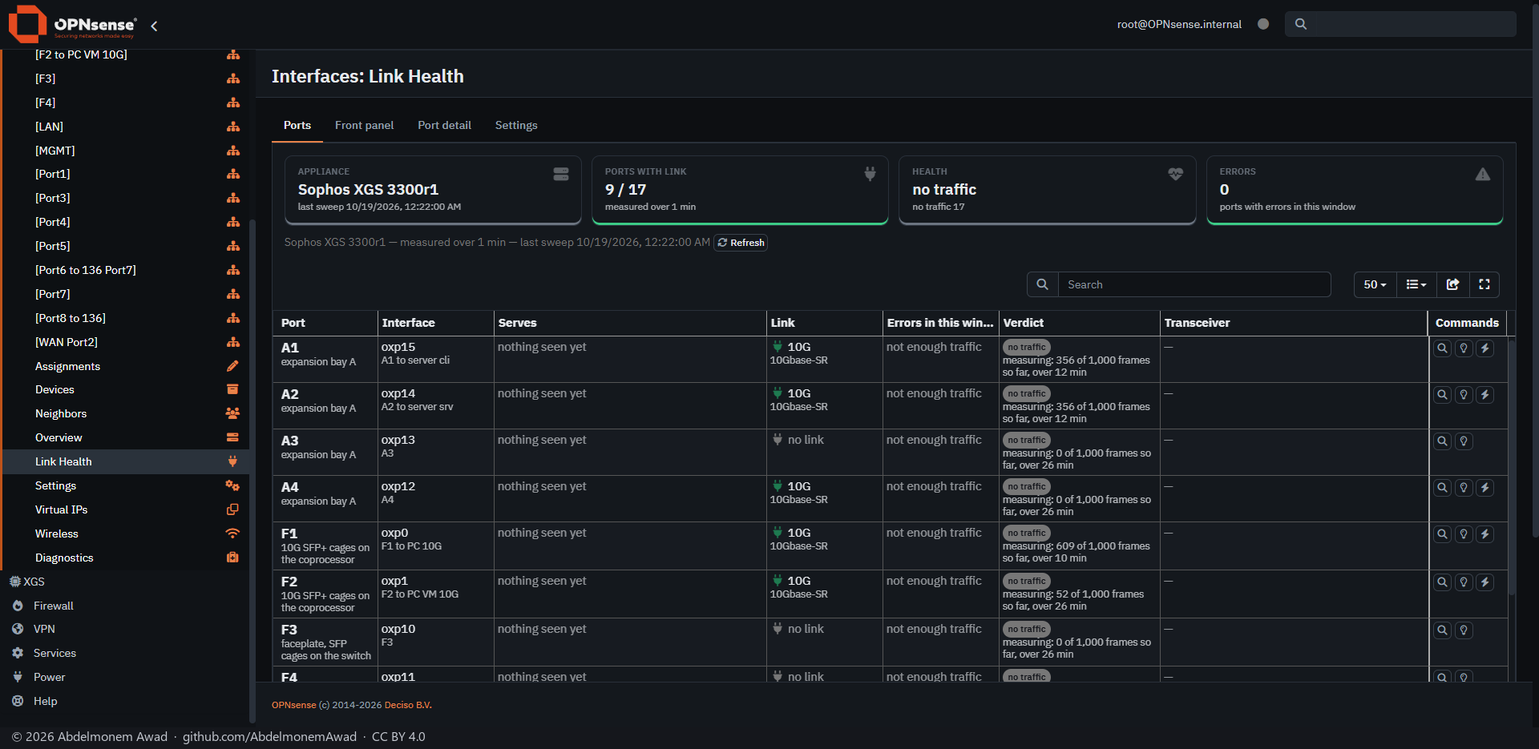
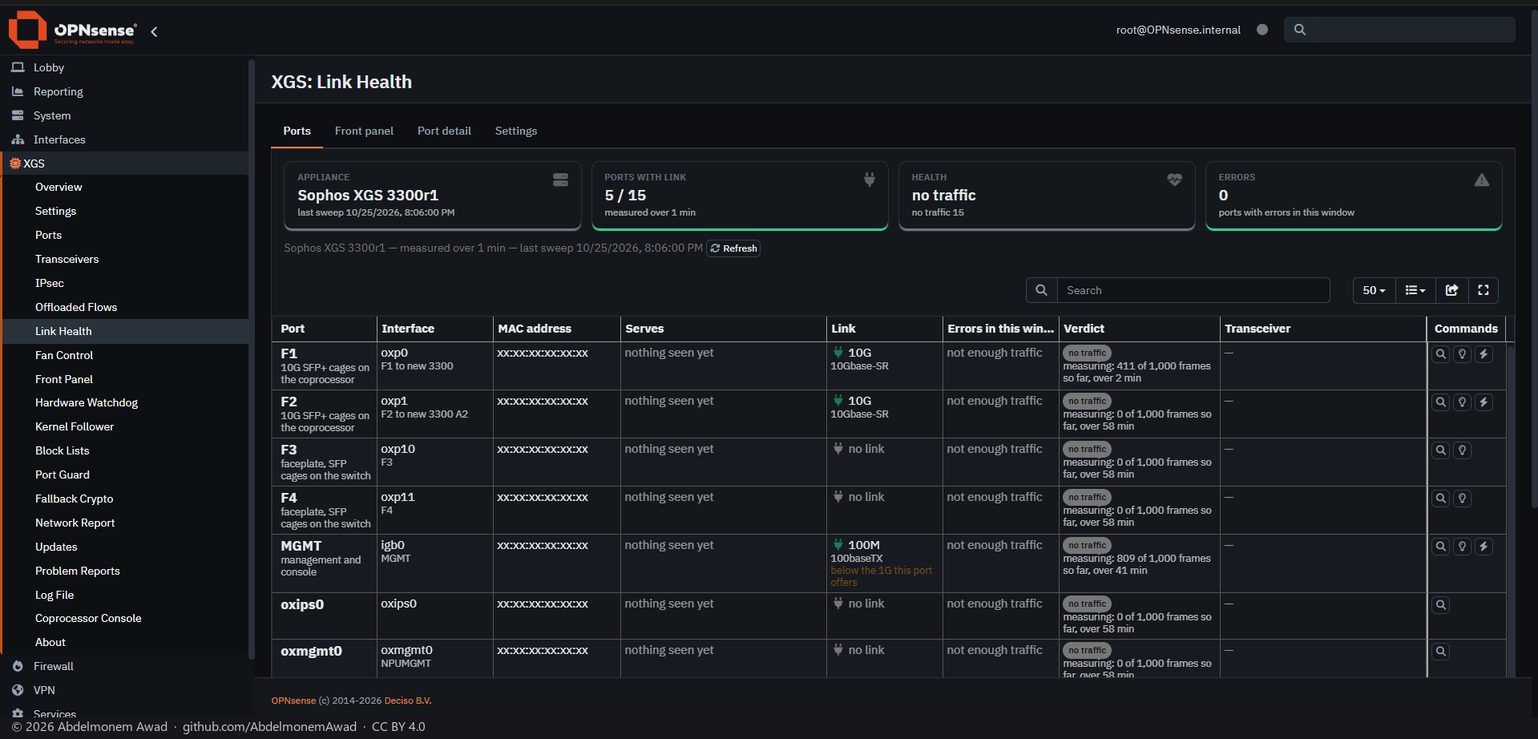
docs: the pages of 2026-10-25 photographed - the Coprocessor tab, the fast-path counters, the console, nine plugins under XGS
The Coprocessor tab and the fast-path counters of XGS: Overview, XGS: Coprocessor Console, the five
new plugins' pages, and the four older plugins' pages and the Plugins tab again, now that the family's
pages are in the XGS section - photographed on the first XGS 3300 the way the others were, in
English, values masked where a page shows any. The guide names the plugins' pages as XGS: and says
where each is without os-xgs-npu; the README counts eleven XGS pages and nine plugins.

diff --git a/docs/images/README.md b/docs/images/README.md
@@ -17,12 +17,12 @@ to a new image, and the checks fail on one without them.
 
 | folder | what it holds | images |
 |---|---|---|
-| [screens/](screens/) | The web interface, page by page, in English and in Arabic | 70 |
+| [screens/](screens/) | The web interface, page by page, in English and in Arabic | 78 |
 | [hardware/](hardware/) | Photographs and drawings of the appliances, one folder each | 41 |
 | [measurements/](measurements/) | Each measurement's photographs, in a folder named after its page | 471 |
 | [readme/](readme/) | The README's banner and status board, drawn by tools/readme-art.py | 6 |
 
-614 images in all.
+622 images in all.
 
 ## The web interface
 
@@ -34,6 +34,8 @@ in [docs/guide/the-pages.md](../guide/the-pages.md), English first and Arabic un
 <tr><td valign="top"><sub>Lobby: Dashboard on an XGS 3300</sub></td><td valign="top"><a href="screens/en/00-lobby-dashboard.png"><img src="screens/en/00-lobby-dashboard.png" alt="Lobby: Dashboard on an XGS 3300 - English" width="100%"></a></td><td valign="top"><a href="screens/ar/00-lobby-dashboard.png"><img src="screens/ar/00-lobby-dashboard.png" alt="Lobby: Dashboard on an XGS 3300 - Arabic" width="100%"></a></td></tr>
 <tr><td valign="top"><sub>The question on XGS: Overview, on the second XGS 3300 as a new install shows it: problem reports waiting for their Send, the appliance not counted, the model's tested status, "Help it get better", and the two answers</sub></td><td valign="top"><a href="screens/en/01-xgs-overview-question.png"><img src="screens/en/01-xgs-overview-question.png" alt="The question on XGS: Overview, on the second XGS 3300 as a new install shows it: problem reports waiting for their Send, the appliance not counted, the model's tested status, "Help it get better", and the two answers - English" width="100%"></a></td><td valign="top"><a href="screens/ar/01-xgs-overview-question.png"><img src="screens/ar/01-xgs-overview-question.png" alt="The question on XGS: Overview, on the second XGS 3300 as a new install shows it: problem reports waiting for their Send, the appliance not counted, the model's tested status, "Help it get better", and the two answers - Arabic" width="100%"></a></td></tr>
 <tr><td valign="top"><sub>XGS: Overview on an XGS 3300: the front panel drawn with each port's link, cards for the coprocessor, hardware offloading, the IPsec engine, the front ports, the switch chip and the last restart, and the board's limits</sub></td><td valign="top"><a href="screens/en/01-xgs-overview.png"><img src="screens/en/01-xgs-overview.png" alt="XGS: Overview on an XGS 3300: the front panel drawn with each port's link, cards for the coprocessor, hardware offloading, the IPsec engine, the front ports, the switch chip and the last restart, and the board's limits - English" width="100%"></a></td><td valign="top"><a href="screens/ar/01-xgs-overview.png"><img src="screens/ar/01-xgs-overview.png" alt="XGS: Overview on an XGS 3300: the front panel drawn with each port's link, cards for the coprocessor, hardware offloading, the IPsec engine, the front ports, the switch chip and the last restart, and the board's limits - Arabic" width="100%"></a></td></tr>
+<tr><td valign="top"><sub>XGS: Overview's Coprocessor tab on the first XGS 3300: eight cards - the vendor's build 23.0.0.329, the CN8365 with 20 cores, copy A running with copy B holding 22.0.2.546, the Kingston eMMC, the persistent partition, the boot firmware, the watchdog fed every 5 s, no memory errors - then the software and the chips</sub></td><td valign="top"><a href="screens/en/01b-xgs-overview-coprocessor.png"><img src="screens/en/01b-xgs-overview-coprocessor.png" alt="XGS: Overview's Coprocessor tab on the first XGS 3300: eight cards - the vendor's build 23.0.0.329, the CN8365 with 20 cores, copy A running with copy B holding 22.0.2.546, the Kingston eMMC, the persistent partition, the boot firmware, the watchdog fed every 5 s, no memory errors - then the software and the chips - English" width="100%"></a></td><td valign="top"><sub>English only</sub></td></tr>
+<tr><td valign="top"><sub>XGS: Overview's Datapath counters tab on the first XGS 3300: the driver's counters, then the coprocessor's fast-path counters named for SFOS 23's software, with Read now and Clear</sub></td><td valign="top"><a href="screens/en/01c-xgs-overview-fast-path.png"><img src="screens/en/01c-xgs-overview-fast-path.png" alt="XGS: Overview's Datapath counters tab on the first XGS 3300: the driver's counters, then the coprocessor's fast-path counters named for SFOS 23's software, with Read now and Clear - English" width="100%"></a></td><td valign="top"><sub>English only</sub></td></tr>
 <tr><td valign="top"><sub>XGS: Settings on an XGS 3300: the Acceleration tab</sub></td><td valign="top"><a href="screens/en/02-xgs-settings.png"><img src="screens/en/02-xgs-settings.png" alt="XGS: Settings on an XGS 3300: the Acceleration tab - English" width="100%"></a></td><td valign="top"><a href="screens/ar/02-xgs-settings.png"><img src="screens/ar/02-xgs-settings.png" alt="XGS: Settings on an XGS 3300: the Acceleration tab - Arabic" width="100%"></a></td></tr>
 <tr><td valign="top"><sub>XGS: Settings on the XGS 136, the Security tab with full help: Cut in hardware, Inspect, then hardware, Watch for unusual traffic</sub></td><td valign="top"><a href="screens/en/02b-xgs-settings-security.png"><img src="screens/en/02b-xgs-settings-security.png" alt="XGS: Settings on the XGS 136, the Security tab with full help: Cut in hardware, Inspect, then hardware, Watch for unusual traffic - English" width="100%"></a></td><td valign="top"><a href="screens/ar/02b-xgs-settings-security.png"><img src="screens/ar/02b-xgs-settings-security.png" alt="XGS: Settings on the XGS 136, the Security tab with full help: Cut in hardware, Inspect, then hardware, Watch for unusual traffic - Arabic" width="100%"></a></td></tr>
 <tr><td valign="top"><sub>XGS: Settings on an XGS 3300, the Hardware tab: the flow table, the switch chip, the fast path, the ports</sub></td><td valign="top"><a href="screens/en/02c-xgs-settings-hardware.png"><img src="screens/en/02c-xgs-settings-hardware.png" alt="XGS: Settings on an XGS 3300, the Hardware tab: the flow table, the switch chip, the fast path, the ports - English" width="100%"></a></td><td valign="top"><a href="screens/ar/02c-xgs-settings-hardware.png"><img src="screens/ar/02c-xgs-settings-hardware.png" alt="XGS: Settings on an XGS 3300, the Hardware tab: the flow table, the switch chip, the fast path, the ports - Arabic" width="100%"></a></td></tr>
@@ -45,16 +47,22 @@ in [docs/guide/the-pages.md](../guide/the-pages.md), English first and Arabic un
 <tr><td valign="top"><sub>XGS: IPsec, Counters: frames decrypted and encrypted by the engine</sub></td><td valign="top"><a href="screens/en/05c-xgs-ipsec-counters.png"><img src="screens/en/05c-xgs-ipsec-counters.png" alt="XGS: IPsec, Counters: frames decrypted and encrypted by the engine - English" width="100%"></a></td><td valign="top"><a href="screens/ar/05c-xgs-ipsec-counters.png"><img src="screens/ar/05c-xgs-ipsec-counters.png" alt="XGS: IPsec, Counters: frames decrypted and encrypted by the engine - Arabic" width="100%"></a></td></tr>
 <tr><td valign="top"><sub>XGS: Offloaded Flows on an XGS 3300</sub></td><td valign="top"><a href="screens/en/06-xgs-offloaded-flows.png"><img src="screens/en/06-xgs-offloaded-flows.png" alt="XGS: Offloaded Flows on an XGS 3300 - English" width="100%"></a></td><td valign="top"><a href="screens/ar/06-xgs-offloaded-flows.png"><img src="screens/ar/06-xgs-offloaded-flows.png" alt="XGS: Offloaded Flows on an XGS 3300 - Arabic" width="100%"></a></td></tr>
 <tr><td valign="top"><sub>XGS, Updates on an appliance</sub></td><td valign="top"><a href="screens/en/07-xgs-updates.png"><img src="screens/en/07-xgs-updates.png" alt="XGS, Updates on an appliance - English" width="100%"></a></td><td valign="top"><a href="screens/ar/07-xgs-updates.png"><img src="screens/ar/07-xgs-updates.png" alt="XGS, Updates on an appliance - Arabic" width="100%"></a></td></tr>
-<tr><td valign="top"><sub>XGS: Updates on the XGS 136, its Plugins tab during Update all: fan control updated to v1.1.1 in six seconds, the network report on its second step, the whole on one bar</sub></td><td valign="top"><a href="screens/en/07b-xgs-updates-plugins.png"><img src="screens/en/07b-xgs-updates-plugins.png" alt="XGS: Updates on the XGS 136, its Plugins tab during Update all: fan control updated to v1.1.1 in six seconds, the network report on its second step, the whole on one bar - English" width="100%"></a></td><td valign="top"><a href="screens/ar/07b-xgs-updates-plugins.png"><img src="screens/ar/07b-xgs-updates-plugins.png" alt="XGS: Updates on the XGS 136, its Plugins tab during Update all: fan control updated to v1.1.1 in six seconds, the network report on its second step, the whole on one bar - Arabic" width="100%"></a></td></tr>
+<tr><td valign="top"><sub>XGS: Updates' Plugins tab on the first XGS 3300 on 2026-10-25: eleven plugins, each installed at its newest release - the four older ones just updated with Update all, the five new ones at v1.0.0 - with what each last update did</sub></td><td valign="top"><a href="screens/en/07b-xgs-updates-plugins.png"><img src="screens/en/07b-xgs-updates-plugins.png" alt="XGS: Updates' Plugins tab on the first XGS 3300 on 2026-10-25: eleven plugins, each installed at its newest release - the four older ones just updated with Update all, the five new ones at v1.0.0 - with what each last update did - English" width="100%"></a></td><td valign="top"><a href="screens/ar/07b-xgs-updates-plugins.png"><img src="screens/ar/07b-xgs-updates-plugins.png" alt="XGS: Updates' Plugins tab on the first XGS 3300 on 2026-10-25: eleven plugins, each installed at its newest release - the four older ones just updated with Update all, the five new ones at v1.0.0 - with what each last update did - Arabic" width="100%"></a></td></tr>
 <tr><td valign="top"><sub>XGS: Problem Reports on an XGS 3300</sub></td><td valign="top"><a href="screens/en/08-xgs-problem-reports.png"><img src="screens/en/08-xgs-problem-reports.png" alt="XGS: Problem Reports on an XGS 3300 - English" width="100%"></a></td><td valign="top"><a href="screens/ar/08-xgs-problem-reports.png"><img src="screens/ar/08-xgs-problem-reports.png" alt="XGS: Problem Reports on an XGS 3300 - Arabic" width="100%"></a></td></tr>
 <tr><td valign="top"><sub>XGS: Log File on an XGS 3300</sub></td><td valign="top"><a href="screens/en/09-xgs-log-file.png"><img src="screens/en/09-xgs-log-file.png" alt="XGS: Log File on an XGS 3300 - English" width="100%"></a></td><td valign="top"><a href="screens/ar/09-xgs-log-file.png"><img src="screens/ar/09-xgs-log-file.png" alt="XGS: Log File on an XGS 3300 - Arabic" width="100%"></a></td></tr>
 <tr><td valign="top"><sub>XGS: About on the XGS 136: the project, its status and the release installed</sub></td><td valign="top"><a href="screens/en/09b-xgs-about.png"><img src="screens/en/09b-xgs-about.png" alt="XGS: About on the XGS 136: the project, its status and the release installed - English" width="100%"></a></td><td valign="top"><sub>English only</sub></td></tr>
 <tr><td valign="top"><sub>XGS: About, its Contact tab</sub></td><td valign="top"><a href="screens/en/09c-xgs-about-contact.png"><img src="screens/en/09c-xgs-about-contact.png" alt="XGS: About, its Contact tab - English" width="100%"></a></td><td valign="top"><sub>English only</sub></td></tr>
 <tr><td valign="top"><sub>XGS: About, its Disclaimer tab</sub></td><td valign="top"><a href="screens/en/09d-xgs-about-disclaimer.png"><img src="screens/en/09d-xgs-about-disclaimer.png" alt="XGS: About, its Disclaimer tab - English" width="100%"></a></td><td valign="top"><sub>English only</sub></td></tr>
-<tr><td valign="top"><sub>Reporting: Network Report on an XGS 3300</sub></td><td valign="top"><a href="screens/en/10-network-report.png"><img src="screens/en/10-network-report.png" alt="Reporting: Network Report on an XGS 3300 - English" width="100%"></a></td><td valign="top"><a href="screens/ar/10-network-report.png"><img src="screens/ar/10-network-report.png" alt="Reporting: Network Report on an XGS 3300 - Arabic" width="100%"></a></td></tr>
-<tr><td valign="top"><sub>System: Fan Control on an XGS 3300</sub></td><td valign="top"><a href="screens/en/11-fan-control.png"><img src="screens/en/11-fan-control.png" alt="System: Fan Control on an XGS 3300 - English" width="100%"></a></td><td valign="top"><a href="screens/ar/11-fan-control.png"><img src="screens/ar/11-fan-control.png" alt="System: Fan Control on an XGS 3300 - Arabic" width="100%"></a></td></tr>
-<tr><td valign="top"><sub>System: Front Panel on an XGS 3300</sub></td><td valign="top"><a href="screens/en/12-front-panel.png"><img src="screens/en/12-front-panel.png" alt="System: Front Panel on an XGS 3300 - English" width="100%"></a></td><td valign="top"><a href="screens/ar/12-front-panel.png"><img src="screens/ar/12-front-panel.png" alt="System: Front Panel on an XGS 3300 - Arabic" width="100%"></a></td></tr>
-<tr><td valign="top"><sub>Interfaces: Link Health on an XGS 3300</sub></td><td valign="top"><a href="screens/en/13-link-health.png"><img src="screens/en/13-link-health.png" alt="Interfaces: Link Health on an XGS 3300 - English" width="100%"></a></td><td valign="top"><a href="screens/ar/13-link-health.png"><img src="screens/ar/13-link-health.png" alt="Interfaces: Link Health on an XGS 3300 - Arabic" width="100%"></a></td></tr>
+<tr><td valign="top"><sub>XGS: Coprocessor Console on the first XGS 3300: the coprocessor's lines kept from its boots, each boot's start marked by the logger</sub></td><td valign="top"><a href="screens/en/09e-xgs-coprocessor-console.png"><img src="screens/en/09e-xgs-coprocessor-console.png" alt="XGS: Coprocessor Console on the first XGS 3300: the coprocessor's lines kept from its boots, each boot's start marked by the logger - English" width="100%"></a></td><td valign="top"><sub>English only</sub></td></tr>
+<tr><td valign="top"><sub>XGS: Network Report on the first XGS 3300</sub></td><td valign="top"><a href="screens/en/10-network-report.png"><img src="screens/en/10-network-report.png" alt="XGS: Network Report on the first XGS 3300 - English" width="100%"></a></td><td valign="top"><a href="screens/ar/10-network-report.png"><img src="screens/ar/10-network-report.png" alt="XGS: Network Report on the first XGS 3300 - Arabic" width="100%"></a></td></tr>
+<tr><td valign="top"><sub>XGS: Fan Control on the first XGS 3300</sub></td><td valign="top"><a href="screens/en/11-fan-control.png"><img src="screens/en/11-fan-control.png" alt="XGS: Fan Control on the first XGS 3300 - English" width="100%"></a></td><td valign="top"><a href="screens/ar/11-fan-control.png"><img src="screens/ar/11-fan-control.png" alt="XGS: Fan Control on the first XGS 3300 - Arabic" width="100%"></a></td></tr>
+<tr><td valign="top"><sub>XGS: Front Panel on the first XGS 3300</sub></td><td valign="top"><a href="screens/en/12-front-panel.png"><img src="screens/en/12-front-panel.png" alt="XGS: Front Panel on the first XGS 3300 - English" width="100%"></a></td><td valign="top"><a href="screens/ar/12-front-panel.png"><img src="screens/ar/12-front-panel.png" alt="XGS: Front Panel on the first XGS 3300 - Arabic" width="100%"></a></td></tr>
+<tr><td valign="top"><sub>XGS: Link Health on the first XGS 3300</sub></td><td valign="top"><a href="screens/en/13-link-health.png"><img src="screens/en/13-link-health.png" alt="XGS: Link Health on the first XGS 3300 - English" width="100%"></a></td><td valign="top"><a href="screens/ar/13-link-health.png"><img src="screens/ar/13-link-health.png" alt="XGS: Link Health on the first XGS 3300 - Arabic" width="100%"></a></td></tr>
+<tr><td valign="top"><sub>XGS: Hardware Watchdog on the first XGS 3300: armed by os-xgs-npu with 128 s, the AMD FCH timer, the last restart a reboot, the chipset's reset record read by os-xgs-npu</sub></td><td valign="top"><a href="screens/en/14-hardware-watchdog.png"><img src="screens/en/14-hardware-watchdog.png" alt="XGS: Hardware Watchdog on the first XGS 3300: armed by os-xgs-npu with 128 s, the AMD FCH timer, the last restart a reboot, the chipset's reset record read by os-xgs-npu - English" width="100%"></a></td><td valign="top"><sub>English only</sub></td></tr>
+<tr><td valign="top"><sub>XGS: Kernel Follower on the first XGS 3300: the kernel running and the one the next boot takes, no module registered, one tree of kernel sources; os-xgs-npu's own module listed as followed by os-xgs-npu</sub></td><td valign="top"><a href="screens/en/15-kernel-follower.png"><img src="screens/en/15-kernel-follower.png" alt="XGS: Kernel Follower on the first XGS 3300: the kernel running and the one the next boot takes, no module registered, one tree of kernel sources; os-xgs-npu's own module listed as followed by os-xgs-npu - English" width="100%"></a></td><td valign="top"><sub>English only</sub></td></tr>
+<tr><td valign="top"><sub>XGS: Block Lists on the first XGS 3300: no list chosen yet - the lists, the packets blocked, the DNS lists and the JA4 fingerprints at 0</sub></td><td valign="top"><a href="screens/en/16-block-lists.png"><img src="screens/en/16-block-lists.png" alt="XGS: Block Lists on the first XGS 3300: no list chosen yet - the lists, the packets blocked, the DNS lists and the JA4 fingerprints at 0 - English" width="100%"></a></td><td valign="top"><sub>English only</sub></td></tr>
+<tr><td valign="top"><sub>XGS: Port Guard on the first XGS 3300: no device listed, 91 devices seen from the host's discovery</sub></td><td valign="top"><a href="screens/en/17-port-guard.png"><img src="screens/en/17-port-guard.png" alt="XGS: Port Guard on the first XGS 3300: no device listed, 91 devices seen from the host's discovery - English" width="100%"></a></td><td valign="top"><sub>English only</sub></td></tr>
+<tr><td valign="top"><sub>XGS: Fallback Crypto on the first XGS 3300: the Ryzen V1780B, aesni as the provider, two IPsec SAs in the kernel with AES-GCM, aesni only at the next boot, and the processor's features</sub></td><td valign="top"><a href="screens/en/18-fallback-crypto.png"><img src="screens/en/18-fallback-crypto.png" alt="XGS: Fallback Crypto on the first XGS 3300: the Ryzen V1780B, aesni as the provider, two IPsec SAs in the kernel with AES-GCM, aesni only at the next boot, and the processor's features - English" width="100%"></a></td><td valign="top"><sub>English only</sub></td></tr>
 <tr><td valign="top"><sub>The image builder's page</sub></td><td valign="top"><a href="screens/en/20-builder-page.png"><img src="screens/en/20-builder-page.png" alt="The image builder's page - English" width="100%"></a></td><td valign="top"><sub>English only</sub></td></tr>
 <tr><td valign="top"><sub>The image builder's form: the release, the image type and the console</sub></td><td valign="top"><a href="screens/en/21-builder-form.png"><img src="screens/en/21-builder-form.png" alt="The image builder's form: the release, the image type and the console - English" width="100%"></a></td><td valign="top"><sub>English only</sub></td></tr>
 </table>

diff --git a/docs/guide/the-pages.md b/docs/guide/the-pages.md
@@ -1,10 +1,16 @@
-<!-- reviewed: 2026-10-20 -->
+<!-- reviewed: 2026-10-25 -->
 # The pages, one by one
 
 Every page this project and its plugins add to OPNsense, photographed on 2026-10-19 on a real appliance - the second
 XGS 3300, with its 4x10G expansion module, running this project's `main` - full screen, in the dark
 theme, in English and in Arabic. The English photographs come first; each page's Arabic one is under
 it. Nothing was staged: the figures are that appliance's at that moment.
+
+The pages added on 2026-10-25 - the Coprocessor tab and the fast-path counters of XGS: Overview, XGS:
+Coprocessor Console, and five new plugins - were photographed that day the same way on the first XGS
+3300 (SFOS 23's coprocessor software), in English, and so were the four older plugins' pages and the
+Plugins tab again, now that the family's pages are in the XGS section. Their Arabic photographs are
+still the ones of 2026-10-19, taken when those pages were in OPNsense's own sections.
 
 Before each photograph, and only in it, a few values were masked: hardware addresses (MACs, and the
 IPv6 addresses built from them), public addresses, the module serial numbers, the owner's domain, and
@@ -30,10 +36,15 @@ photographed. All of them, with every other image in the repository, are listed 
 | 9 | [XGS: Log File](#xgs-log-file) | XGS | the project's own log |
 | 9a | [XGS: Coprocessor Console](#xgs-coprocessor-console) | XGS | what the coprocessor wrote on its console, kept from every boot |
 | 9b | [XGS: About](#xgs-about) | XGS | the project, its author, its links and addresses, the disclaimer |
-| 10 | [Reporting: Network Report](#reporting-network-report) | os-netreport | a report of the network by mail, on a schedule |
-| 11 | [System: Fan Control](#system-fan-control) | os-fanctl | temperatures and fans |
-| 12 | [System: Front Panel](#system-front-panel) | os-frontpanel | the LCD and the keys beside it |
-| 13 | [Interfaces: Link Health](#interfaces-link-health) | os-linkhealth | a verdict on every port from its error counters |
+| 10 | [XGS: Network Report](#xgs-network-report) | os-netreport | a report of the network by mail, on a schedule |
+| 11 | [XGS: Fan Control](#xgs-fan-control) | os-fanctl | temperatures and fans |
+| 12 | [XGS: Front Panel](#xgs-front-panel) | os-frontpanel | the LCD and the keys beside it |
+| 13 | [XGS: Link Health](#xgs-link-health) | os-linkhealth | a verdict on every port from its error counters |
+| 14 | [XGS: Hardware Watchdog](#xgs-hardware-watchdog) | os-watchdog | the host's hardware watchdog, and why it last reset |
+| 15 | [XGS: Kernel Follower](#xgs-kernel-follower) | os-kernelfollow | kernel modules rebuilt for the kernel the next boot takes |
+| 16 | [XGS: Block Lists](#xgs-block-lists) | os-blocklists | address, DNS, country and JA4 block lists |
+| 17 | [XGS: Port Guard](#xgs-port-guard) | os-portguard | devices blocked by their MAC address |
+| 18 | [XGS: Fallback Crypto](#xgs-fallback-crypto) | os-fallbackcrypto | which crypto driver encrypts IPsec on the host |
 | 20 | [The image builder](#the-image-builder) | its own site | where an install starts |
 
 ## Lobby: Dashboard
@@ -102,6 +113,10 @@ counts of its EDAC controllers, nineteen on the XGS 3300 and none on the XGS 136
 software, read when the tab opens, with a **Clear** behind the settings privilege that zeroes them
 (discovery 13); and on an ARMADA board **Technical details** says whether the coprocessor's PCIe
 relaxed ordering and no-snoop are off, as the driver leaves them (#748).
+
+![XGS: Overview's Coprocessor tab on the first XGS 3300: eight cards - the vendor's build 23.0.0.329, the CN8365 with 20 cores, copy A running with copy B holding 22.0.2.546, the Kingston eMMC, the persistent partition, the boot firmware, the watchdog fed every 5 s, no memory errors - then the software and the chips](../images/screens/en/01b-xgs-overview-coprocessor.png)
+
+![XGS: Overview's Datapath counters tab on the first XGS 3300: the driver's counters, then the coprocessor's fast-path counters named for SFOS 23's software, with Read now and Clear](../images/screens/en/01c-xgs-overview-fast-path.png)
 
 Since 2026-10-23 the page asks one question above the panel, once, until it is answered: nothing
 leaves the appliance unless its owner chooses, so its problem reports wait for their Send and it is
@@ -310,7 +325,7 @@ and GitHub itself only when the site cannot answer. What is installed is still G
 update confirms the release's commit with GitHub before it downloads anything, and a plugin's update
 asks GitHub directly. The site keeps nothing of these requests ([privacy](https://npuforge.org/privacy/)).
 
-![XGS: Updates on the XGS 136, its Plugins tab during Update all: fan control updated to v1.1.1 in six seconds, the network report on its second step, the whole on one bar](../images/screens/en/07b-xgs-updates-plugins.png)
+![XGS: Updates' Plugins tab on the first XGS 3300 on 2026-10-25: eleven plugins, each installed at its newest release - the four older ones just updated with Update all, the five new ones at v1.0.0 - with what each last update did](../images/screens/en/07b-xgs-updates-plugins.png)
 
 <details><summary>The same page in Arabic</summary>
 
@@ -355,6 +370,8 @@ Since 2026-10-25: what the coprocessor wrote on its own console, which `scripts/
 keeps from every boot (`/var/log/xgs/npu-console.log`, discovery 27), in OPNsense's own log viewer,
 newest first - its boot firmware's banners, its kernel's messages, its last words before a restart.
 
+![XGS: Coprocessor Console on the first XGS 3300: the coprocessor's lines kept from its boots, each boot's start marked by the logger](../images/screens/en/09e-xgs-coprocessor-console.png)
+
 ## XGS: About
 
 ![XGS: About on the XGS 136: the project, its status and the release installed](../images/screens/en/09b-xgs-about.png)
@@ -377,9 +394,11 @@ policy and the changelog, nothing more.
 
 </details>
 
-## Reporting: Network Report
+## XGS: Network Report
 
-![Reporting: Network Report on an XGS 3300, in English](../images/screens/en/10-network-report.png)
+![XGS: Network Report on the first XGS 3300, in English](../images/screens/en/10-network-report.png)
+
+In the XGS section since 2026-10-25 when os-xgs-npu is installed; under Reporting: Network Report without it.
 
 [os-netreport](https://github.com/AbdelmonemAwad/os-netreport): a report of the network sent by mail
 on a schedule, in English or Arabic, through the mail settings OPNsense already has for Monit. The eye
@@ -387,13 +406,15 @@ button previews a schedule's report and the plane sends it now. No schedule is s
 
 <details><summary>The same page in Arabic</summary>
 
-![Reporting: Network Report on an XGS 3300, in Arabic](../images/screens/ar/10-network-report.png)
+![Reporting: Network Report on an XGS 3300, in Arabic, on 2026-10-19 - before the page moved under XGS](../images/screens/ar/10-network-report.png)
 
 </details>
 
-## System: Fan Control
+## XGS: Fan Control
 
-![System: Fan Control on an XGS 3300, in English](../images/screens/en/11-fan-control.png)
+![XGS: Fan Control on the first XGS 3300, in English](../images/screens/en/11-fan-control.png)
+
+In the XGS section since 2026-10-25 when os-xgs-npu is installed; under System: Fan Control without it.
 
 [os-fanctl](https://github.com/AbdelmonemAwad/os-fanctl): every temperature the board gives - the
 coprocessor's die, the processor cores, the inlet air - with its lowest, mean and highest over the
@@ -402,13 +423,15 @@ hardware, which the cards say: the board gives the host no register to set them.
 
 <details><summary>The same page in Arabic</summary>
 
-![System: Fan Control on an XGS 3300, in Arabic](../images/screens/ar/11-fan-control.png)
+![System: Fan Control on an XGS 3300, in Arabic, on 2026-10-19 - before the page moved under XGS](../images/screens/ar/11-fan-control.png)
 
 </details>
 
-## System: Front Panel
+## XGS: Front Panel
 
-![System: Front Panel on an XGS 3300, in English](../images/screens/en/12-front-panel.png)
+![XGS: Front Panel on the first XGS 3300, in English](../images/screens/en/12-front-panel.png)
+
+In the XGS section since 2026-10-25 when os-xgs-npu is installed; under System: Front Panel without it.
 
 [os-frontpanel](https://github.com/AbdelmonemAwad/os-frontpanel): the LCD on the front of an appliance
 that has one, through LCDproc - the panel, its serial port, the screens it rotates through and the
@@ -417,13 +440,15 @@ without a panel, like the XGS 136, the image builder's **No front panel** leaves
 
 <details><summary>The same page in Arabic</summary>
 
-![System: Front Panel on an XGS 3300, in Arabic](../images/screens/ar/12-front-panel.png)
+![System: Front Panel on an XGS 3300, in Arabic, on 2026-10-19 - before the page moved under XGS](../images/screens/ar/12-front-panel.png)
 
 </details>
 
-## Interfaces: Link Health
+## XGS: Link Health
 
-![Interfaces: Link Health on an XGS 3300, in English](../images/screens/en/13-link-health.png)
+![XGS: Link Health on the first XGS 3300, in English](../images/screens/en/13-link-health.png)
+
+In the XGS section since 2026-10-25 when os-xgs-npu is installed; under Interfaces: Link Health without it.
 
 [os-linkhealth](https://github.com/AbdelmonemAwad/os-linkhealth): a verdict on every port from its
 error counters over a window, with the transceiver it holds - and "not enough traffic" until a port
@@ -432,9 +457,53 @@ other tabs.
 
 <details><summary>The same page in Arabic</summary>
 
-![Interfaces: Link Health on an XGS 3300, in Arabic](../images/screens/ar/13-link-health.png)
+![Interfaces: Link Health on an XGS 3300, in Arabic, on 2026-10-19 - before the page moved under XGS](../images/screens/ar/13-link-health.png)
 
 </details>
+
+## XGS: Hardware Watchdog
+
+![XGS: Hardware Watchdog on the first XGS 3300: armed by os-xgs-npu with 128 s, the AMD FCH timer, the last restart a reboot, the chipset's reset record read by os-xgs-npu](../images/screens/en/14-hardware-watchdog.png)
+
+[os-watchdog](https://github.com/AbdelmonemAwad/os-watchdog), since 2026-10-25: arms the host's hardware
+watchdog so a host that stops is reset by its own hardware, and reads from the chipset why it last
+reset. On an XGS appliance os-xgs-npu arms the timer itself, so the plugin stands aside and only shows
+it, which the line under the cards says. Under System: Hardware Watchdog without os-xgs-npu.
+
+## XGS: Kernel Follower
+
+![XGS: Kernel Follower on the first XGS 3300: the kernel running and the one the next boot takes, no module registered, one tree of kernel sources; os-xgs-npu's own module listed as followed by os-xgs-npu](../images/screens/en/15-kernel-follower.png)
+
+[os-kernelfollow](https://github.com/AbdelmonemAwad/os-kernelfollow), since 2026-10-25: rebuilds the
+out-of-tree kernel modules registered with it for the kernel the next boot takes. os-xgs-npu's own
+modules are left to os-xgs-npu's follower and only shown. Under System: Kernel Follower without
+os-xgs-npu.
+
+## XGS: Block Lists
+
+![XGS: Block Lists on the first XGS 3300: no list chosen yet - the lists, the packets blocked, the DNS lists and the JA4 fingerprints at 0](../images/screens/en/16-block-lists.png)
+
+[os-blocklists](https://github.com/AbdelmonemAwad/os-blocklists), since 2026-10-25: address, DNS,
+country and JA4 block lists in one page. On a Sophos XGS a connection to an address that becomes
+listed is cut, and taken out of the coprocessor with its state. **DNS**, **JA4** and **Settings** are
+its other tabs. Under Firewall: Block Lists without os-xgs-npu.
+
+## XGS: Port Guard
+
+![XGS: Port Guard on the first XGS 3300: no device listed, 91 devices seen from the host's discovery](../images/screens/en/17-port-guard.png)
+
+[os-portguard](https://github.com/AbdelmonemAwad/os-portguard), since 2026-10-25: devices blocked at the
+firewall by their MAC address, and the devices it has seen to choose from (**Devices seen**, not
+photographed: it lists their hardware addresses). Under Firewall: Port Guard without os-xgs-npu.
+
+## XGS: Fallback Crypto
+
+![XGS: Fallback Crypto on the first XGS 3300: the Ryzen V1780B, aesni as the provider, two IPsec SAs in the kernel with AES-GCM, aesni only at the next boot, and the processor's features](../images/screens/en/18-fallback-crypto.png)
+
+[os-fallbackcrypto](https://github.com/AbdelmonemAwad/os-fallbackcrypto), since 2026-10-25: which of
+the kernel's crypto drivers encrypts IPsec on the host - AES-NI, OpenSSL's, or both. On a Sophos XGS
+the coprocessor encrypts the associations it has taken, whatever is chosen here, and the page says so.
+Under VPN: IPsec: Fallback Crypto without os-xgs-npu.
 
 ## The image builder
 

diff --git a/README.md b/README.md
@@ -147,10 +147,11 @@ Two of the six coprocessor families answer now, on silicon that shares nothing.
 <a href="docs/guide/the-pages.md"><img src="docs/images/screens/en/01-xgs-overview.png" alt="XGS: Overview on an XGS 3300: the front panel drawn with each port's link, cards for the coprocessor, hardware offloading, the IPsec engine, the front ports, the switch chip and the last restart, and the board's limits" width="100%"></a>
 
 **XGS: Overview** on the second XGS 3300, photographed on the appliance itself on 2026-10-19, full
-screen in the dark theme. Every page - ~~the nine~~ the ten of the **XGS** section (**About** since
-2026-10-20, with the project, its author, its addresses and the disclaimer; the plugins' updates a tab
-of **Updates**), the dashboard and the four plugins' - is photographed the same way, each with what it
-is for, in
+screen in the dark theme. Every page - ~~the nine~~ ~~the ten~~ the eleven of the **XGS** section
+(**About** since 2026-10-20, with the project, its author, its addresses and the disclaimer;
+**Coprocessor Console** since 2026-10-25; the plugins' updates a tab of **Updates**), the dashboard and
+~~the four plugins'~~ the nine plugins', in the XGS section since 2026-10-25 - is photographed the same
+way, each with what it is for, in
 **[docs/guide/the-pages.md](docs/guide/the-pages.md)**; every image in the repository, the appliances'
 photographs and the measurements' among them, is indexed in
 **[docs/images/README.md](docs/images/README.md)**.

diff --git a/docs/INDEX.md b/docs/INDEX.md
@@ -27,7 +27,7 @@
 | 12 | [What it cannot do](guide/limitations.md) | | | 2026-10-24 | 2026-12-23 |
 | 13 | [Every badge, as the README carried them until 2026-10-18](guide/measured.md) | | | 2026-10-17 | 2026-12-16 |
 | 14 | [Installing, step by step](guide/step-by-step.md) | | | 2026-10-24 | 2026-12-23 |
-| 15 | [The pages, one by one](guide/the-pages.md) | | | 2026-10-20 | 2026-12-19 |
+| 15 | [The pages, one by one](guide/the-pages.md) | | | 2026-10-25 | 2026-12-24 |
 | 16 | [Updating an appliance, step by step](guide/updating.md) | | | 2026-10-19 | 2026-12-18 |
 | 17 | [What works](guide/what-works.md) | | | 2026-10-17 | 2026-12-16 |
 | | <a name="kind-families"></a>**The coprocessor families** &nbsp;<sub>`docs/families/`</sub> | **15** | **90 days** | | |
